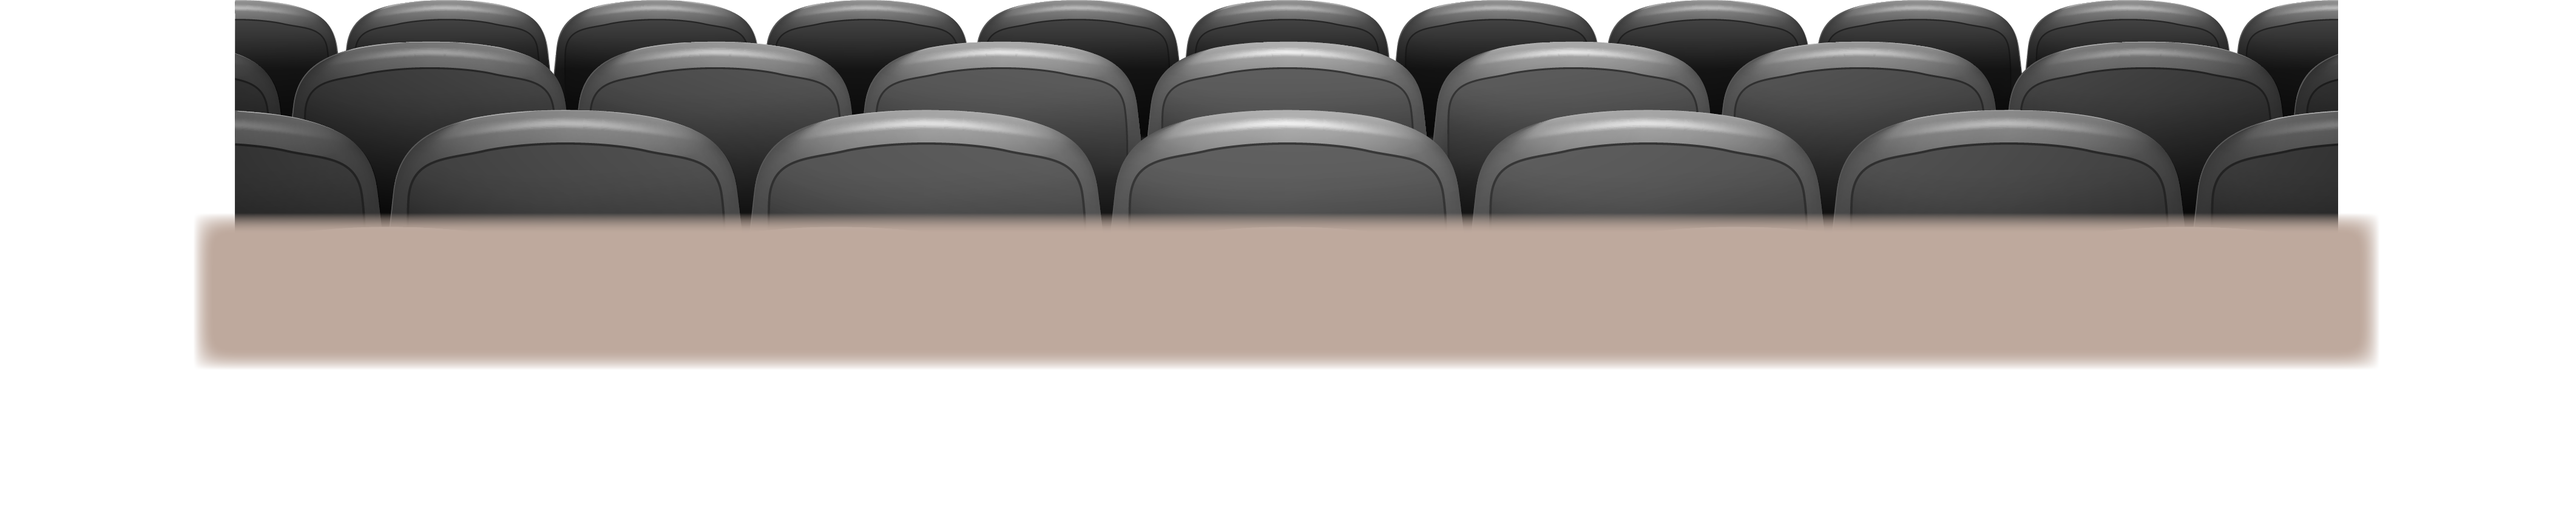
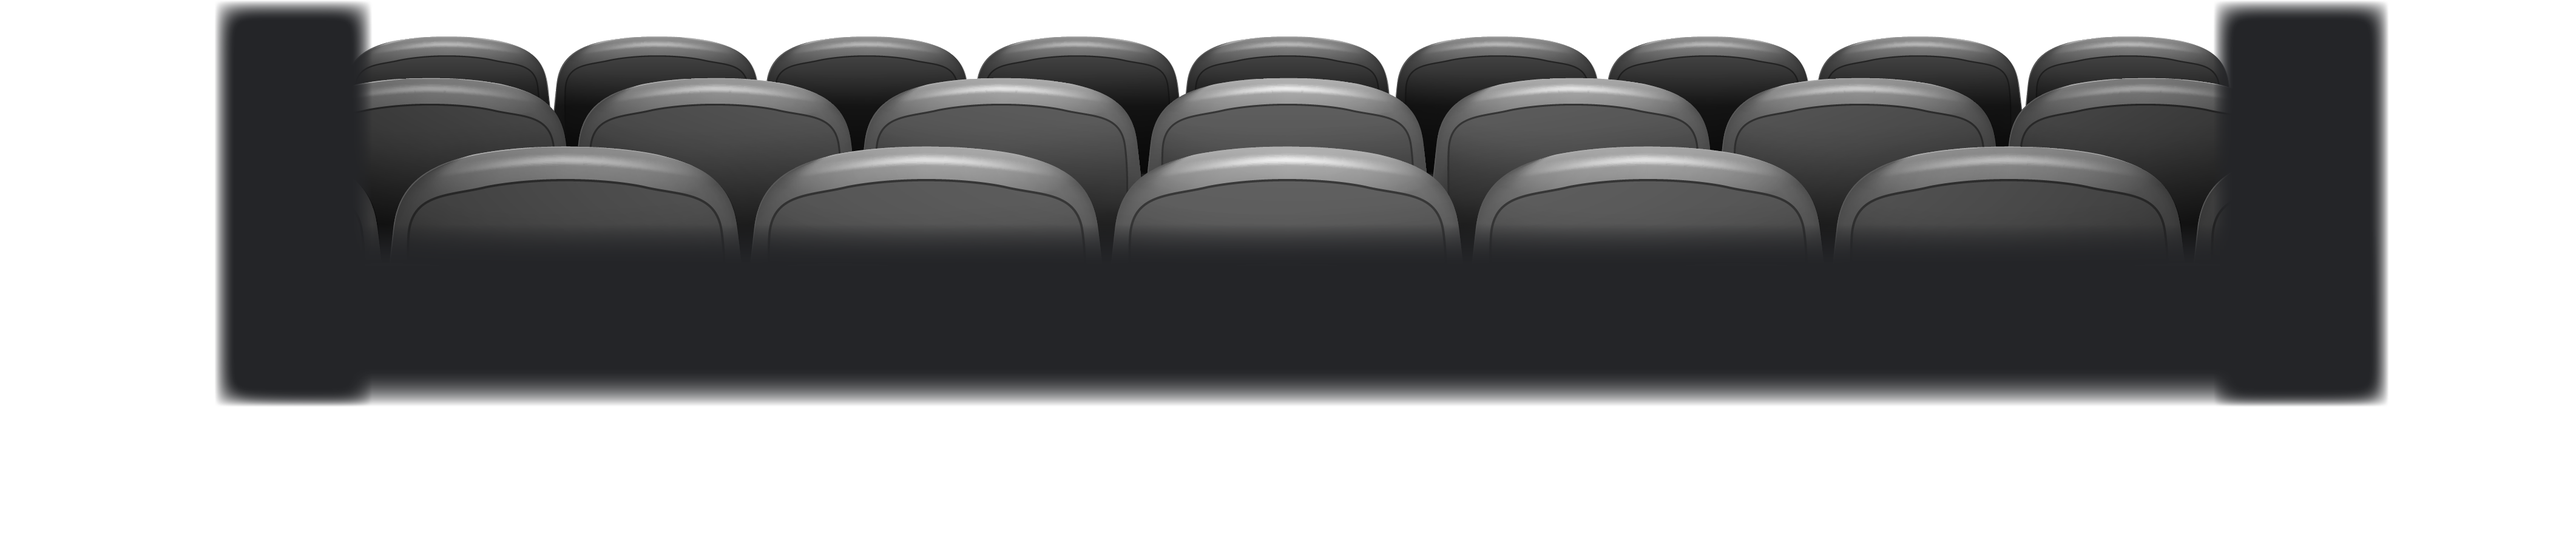
reversed gradient

diff --git a/public/stylesheets/main.css b/public/stylesheets/main.css
@@ -1,6 +1,10 @@
 .navbar + .jumbotron {
   margin-top: -20px; 
-  background: linear-gradient(180deg, #242528 0%, #BEA99D 100%);
+  background: linear-gradient(180deg, #BEA99D 0%, #242528 100%);
+}
+
+.navbar-inverse .navbar-nav>li>a {
+  color: #242528 ;
 }
 
 .image-container {
@@ -33,18 +37,8 @@ video {
 
 }
 
-.placeholder-right {
-  height: 9rem;
-  float: right;
-  width: 30%;
-  display: block;
-  background: linear-gradient(145deg, #99867B 15%, #A79286 100%);
-  margin-top: 1rem; 
-  box-shadow: 10px 10px 40px #2F363D;
-}
-
-.placeholder-right:hover {
-  box-shadow: 1px 1px 10px #2F363D;
+.opacity-img {
+  opacity: .4; 
 }
 
 .placeholder-right p {
@@ -53,14 +47,14 @@ video {
 }
 
 .body {
-  background: #BEA99D;
+  background: #242528;
   font-family: lexia, serif;
   font-style: normal;
   font-weight: 500;
 }
 
 .navbar-blue {
-  background: #242528;
+  background: #BEA99D;
   border: none;  
 }
 
@@ -72,7 +66,7 @@ h1 {
 
 .jumbotron {
   color: white;
-  padding-bottom: 5px; }
+  padding-bottom: 0px; }
   .jumbotron .btn-primary {
     background: #845ac7;
     border-color: #845ac7; }
